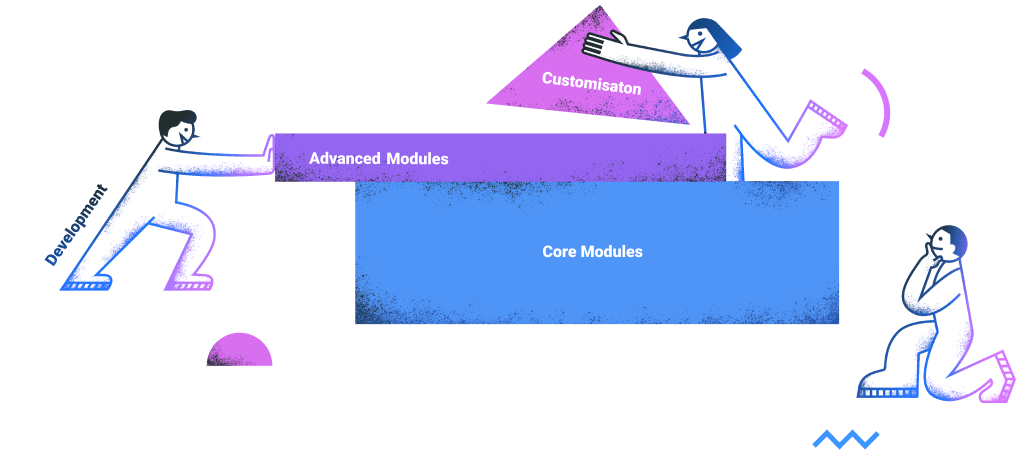
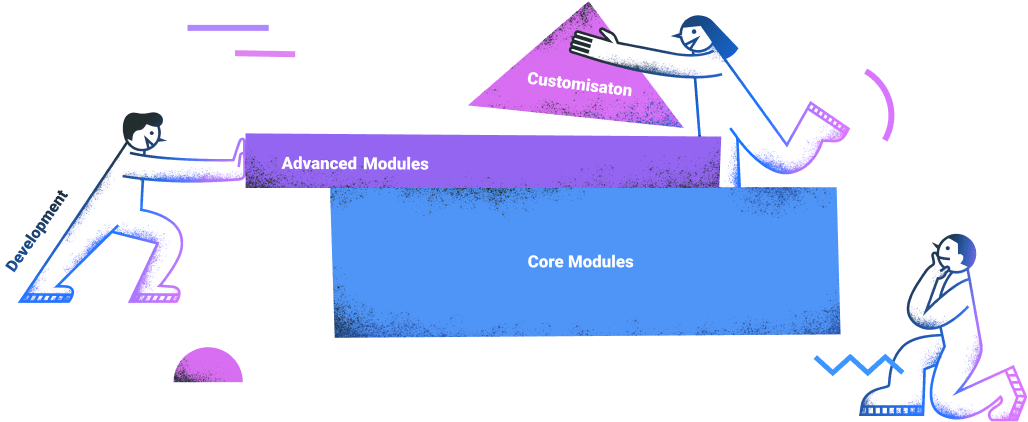
COM-1638: Обновил изображение в greeting блоке

diff --git a/components/ElearningPlatform/ElearningPlatformContent.jsx b/components/ElearningPlatform/ElearningPlatformContent.jsx
@@ -115,6 +115,14 @@ class ElearningPlatformContent extends PureComponent {
                 alt="Greeting image"
               />
             </div>
+
+            <div className="greeting-image-mobile">
+              <img
+                srcSet={`${require('../../static/elearning-platform/greeting-mob.png')} 1x, ${require('../../static/elearning-platform/greeting-mob@2x.png')} 2x, ${require('../../static/elearning-platform/greeting-mob@3x.png')} 3x`}
+                src={require('../../static/elearning-platform/greeting-mob.png')}
+                alt="Greeting image"
+              />
+            </div>
           </div>
         </div>
 

diff --git a/components/ElearningPlatform/ElearningPlatformContent.styles.js b/components/ElearningPlatform/ElearningPlatformContent.styles.js
@@ -35,6 +35,10 @@ const base = css`
         margin-top: 10px;
     }
 
+    .greeting-image-mobile {
+        display: none;
+    }
+
     .greeting-image img {
         max-width: 100%;
         height: auto;
@@ -659,7 +663,18 @@ const base = css`
         }
 
         .greeting-image {
+            display: none;
+        }
+
+        .greeting-image-mobile {
+            margin-top: 40px;
+            display: block;
             grid-column: 1 / span 6;
+        }
+
+        .greeting-image-mobile img {
+            width: 100%;
+            height: auto;
         }
 
         .greeting-description {
